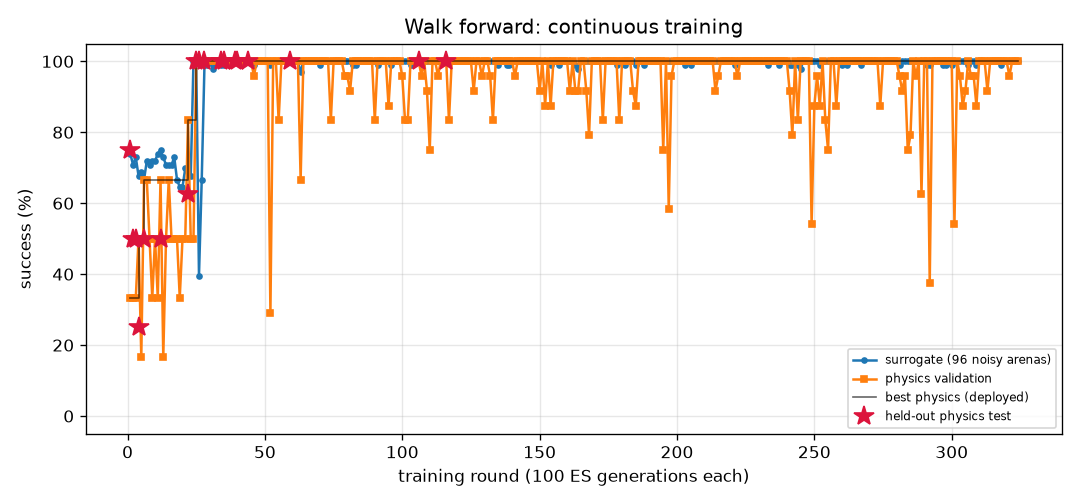
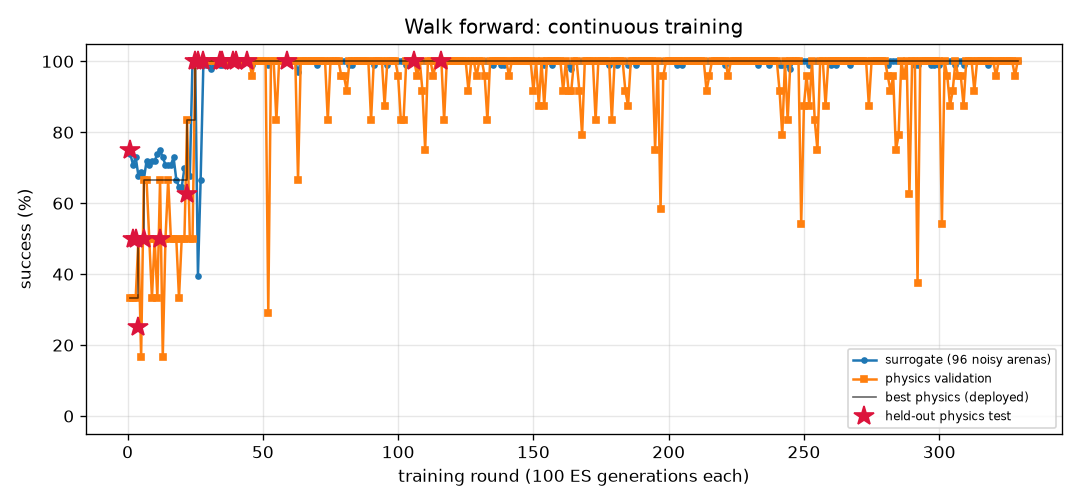
FlyLab: continuous training progress
- walk_forward: optimal, physics val 100% of 24, round 329
- turn: optimal, physics val 100% of 24, round 925
- goto: optimal, physics val 100% of 24, round 262
- odor_seek: optimal, physics val 100% of 24, round 212
- odor_avoid: optimal, physics val 100% of 24, round 837
- light_seek: optimal, physics val 100% of 24, round 458
- light_avoid: optimal, physics val 100% of 24, round 569

diff --git a/projects/09_flylab/training/walk_forward/REPORT.md b/projects/09_flylab/training/walk_forward/REPORT.md
@@ -1,14 +1,14 @@
 # Walk forward (`walk_forward`) — training report
 
-*Auto-generated by `train_brains.py`, last updated 2026-11-08T11:52:38.*
+*Auto-generated by `train_brains.py`, last updated 2026-11-08T12:47:40.*
 
 ![curve](curve.png)
 
 | | |
 |---|---|
-| rounds | 324 |
-| ES generations | 32400 |
-| physics runs | 7790 |
+| rounds | 329 |
+| ES generations | 32900 |
+| physics runs | 7910 |
 | status | **optimal** |
 | best brain | round 116: physics validation **100%** on 24 arenas, surrogate 100% |
 | held-out physics test | **100%** on 32 unseen arenas (95% CI 89%-100%) (errors: [0.13, 0.16, 0.19, 0.16, 0.15, 0.2, 0.17, 0.18, 0.17, 0.19, 0.2, 0.14, 0.17, 0.19, 0.2, 0.2, 0.13, 0.19, 0.16, 0.2, 0.2, 0.16, 0.17, 0.2, 0.13, 0.15, 0.18, 0.14, 0.16, 0.15, 0.19, 0.12]) |
@@ -17,11 +17,6 @@ Physics error per arena: mm from target at the end (< 1.5 and standing still = s
 
 | round | level | gens | sigma | surrogate | physics val | val errors | test | note |
 |---:|---:|---:|---:|---:|---:|---|---:|---|
-| 285 | 3 | 28500 | 0.024 | 100% | 79% | [0.22, 0.07, 0.26, 0.12, 0.1, 0.06, 0.11, 0.02, 0.1, 0.16, 0.37, 0.2, 0.21, 0.25, 0.1, 0.16, 0.05, 0.06, 0.03, 0.2, 0.07, 0.17, 0.21, 0.25] |  |  |
-| 286 | 3 | 28600 | 0.024 | 100% | 100% | [0.25, 0.24, 0.26, 0.25, 0.25, 0.25, 0.25, 0.27, 0.24, 0.23, 0.23, 0.25, 0.26, 0.25, 0.26, 0.24, 0.26, 0.25, 0.26, 0.25, 0.27, 0.22, 0.29, 0.26] |  |  |
-| 287 | 3 | 28700 | 0.024 | 100% | 96% | [0.13, 0.24, 0.14, 0.13, 0.24, 0.16, 0.24, 0.11, 0.24, 0.26, 0.17, 0.25, 0.01, 0.15, 0.16, 0.25, 0.12, 0.21, 0.12, 0.17, 0.11, 0.26, 0.23, 0.38] |  |  |
-| 288 | 3 | 28800 | 0.024 | 100% | 100% | [0.26, 0.33, 0.25, 0.26, 0.33, 0.25, 0.33, 0.24, 0.33, 0.33, 0.25, 0.33, 0.24, 0.25, 0.28, 0.33, 0.25, 0.31, 0.24, 0.29, 0.23, 0.33, 0.32, 0.24] |  | restart from best |
-| 289 | 3 | 28900 | 0.024 | 100% | 62% | [0.01, 0.17, 0.08, 0.47, 0.17, 1.02, 0.18, 0.53, 0.18, 0.19, 0.02, 0.17, 0.7, 0.71, 0.11, 0.18, 0.83, 0.15, 0.03, 0.13, 0.42, 0.19, 0.17, 0.29] |  |  |
 | 290 | 3 | 29000 | 0.024 | 100% | 100% | [0.22, 0.22, 0.18, 0.23, 0.22, 0.17, 0.22, 0.21, 0.22, 0.19, 0.16, 0.16, 0.21, 0.17, 0.23, 0.19, 0.23, 0.22, 0.22, 0.22, 0.22, 0.19, 0.16, 0.21] |  |  |
 | 291 | 3 | 29100 | 0.024 | 99% | 100% | [0.3, 0.29, 0.27, 0.29, 0.29, 0.26, 0.29, 0.29, 0.29, 0.28, 0.26, 0.27, 0.28, 0.27, 0.3, 0.28, 0.29, 0.3, 0.29, 0.3, 0.29, 0.28, 0.28, 0.29] |  |  |
 | 292 | 3 | 29200 | 0.025 | 99% | 38% | [3.46, 0.04, 0.02, 3.28, 0.07, 0.08, 0.04, 0.18, 0.13, 0.08, 0.48, 0.99, 3.81, 0.03, 0.34, 0.1, 0.17, 2.98, 0.07, 1.21, 2.08, 1.18, 0.09, 1.58] |  | restart from best |
@@ -57,3 +52,8 @@ Physics error per arena: mm from target at the end (< 1.5 and standing still = s
 | 322 | 3 | 32200 | 0.024 | 100% | 100% | [0.12, 0.19, 0.1, 0.16, 0.19, 0.08, 0.2, 0.07, 0.19, 0.26, 0.05, 0.24, 0.1, 0.08, 0.2, 0.25, 0.1, 0.2, 0.07, 0.15, 0.06, 0.24, 0.16, 0.1] |  |  |
 | 323 | 3 | 32300 | 0.024 | 100% | 100% | [0.24, 0.31, 0.21, 0.23, 0.31, 0.22, 0.3, 0.21, 0.31, 0.31, 0.22, 0.29, 0.21, 0.22, 0.26, 0.29, 0.23, 0.29, 0.21, 0.27, 0.22, 0.3, 0.28, 0.21] |  |  |
 | 324 | 3 | 32400 | 0.024 | 100% | 100% | [0.27, 0.27, 0.21, 0.26, 0.26, 0.19, 0.26, 0.24, 0.27, 0.24, 0.18, 0.18, 0.23, 0.2, 0.29, 0.22, 0.26, 0.28, 0.25, 0.28, 0.25, 0.24, 0.25, 0.23] |  | restart from best |
+| 325 | 3 | 32500 | 0.024 | 100% | 100% | [0.2, 0.26, 0.06, 0.2, 0.26, 0.06, 0.25, 0.16, 0.26, 0.24, 0.18, 0.23, 0.16, 0.06, 0.23, 0.24, 0.18, 0.25, 0.16, 0.24, 0.16, 0.24, 0.22, 0.15] |  |  |
+| 326 | 3 | 32600 | 0.024 | 100% | 100% | [0.11, 0.1, 0.05, 0.1, 0.11, 0.08, 0.16, 0.02, 0.12, 0.22, 0.08, 0.17, 0.12, 0.07, 0.14, 0.18, 0.12, 0.11, 0.06, 0.12, 0.08, 0.21, 0.18, 0.15] |  |  |
+| 327 | 3 | 32700 | 0.024 | 100% | 100% | [0.15, 0.21, 0.16, 0.15, 0.2, 0.16, 0.21, 0.16, 0.21, 0.24, 0.16, 0.24, 0.16, 0.16, 0.16, 0.24, 0.14, 0.19, 0.15, 0.16, 0.15, 0.24, 0.24, 0.16] |  |  |
+| 328 | 3 | 32800 | 0.024 | 100% | 96% | [0.1, 0.2, 0.04, 0.16, 0.18, 0.12, 0.18, 0.07, 0.17, 0.13, 0.29, 0.13, 0.14, 0.11, 0.11, 0.09, 0.15, 0.13, 0.15, 0.11, 0.13, 0.16, 0.15, 0.14] |  | restart from best |
+| 329 | 3 | 32900 | 0.024 | 100% | 100% | [0.34, 0.42, 0.3, 0.33, 0.42, 0.31, 0.42, 0.3, 0.42, 0.43, 0.31, 0.42, 0.31, 0.3, 0.37, 0.43, 0.33, 0.41, 0.3, 0.38, 0.31, 0.43, 0.42, 0.3] |  |  |

diff --git a/projects/09_flylab/training/goto/REPORT.md b/projects/09_flylab/training/goto/REPORT.md
@@ -1,14 +1,14 @@
 # Go to a location (`goto`) — training report
 
-*Auto-generated by `train_brains.py`, last updated 2026-11-07T20:32:22.*
+*Auto-generated by `train_brains.py`, last updated 2026-11-08T13:01:28.*
 
 ![curve](curve.png)
 
 | | |
 |---|---|
-| rounds | 259 |
-| ES generations | 25900 |
-| physics runs | 6166 |
+| rounds | 262 |
+| ES generations | 26200 |
+| physics runs | 6238 |
 | status | **optimal** |
 | best brain | round 176: physics validation **100%** on 24 arenas, surrogate 100% |
 | held-out physics test | **100%** on 32 unseen arenas (95% CI 89%-100%) (errors: [0.2, 0.32, 0.19, 0.24, 0.18, 0.2, 0.19, 0.17, 0.22, 0.23, 0.23, 0.26, 0.2, 0.19, 0.24, 0.23, 0.22, 0.24, 0.2, 0.22, 0.2, 0.2, 0.26, 0.19, 0.22, 0.18, 0.26, 0.22, 0.2, 0.26, 0.23, 0.23]) |
@@ -17,9 +17,6 @@ Physics error per arena: mm from target at the end (< 1.5 and standing still = s
 
 | round | level | gens | sigma | surrogate | physics val | val errors | test | note |
 |---:|---:|---:|---:|---:|---:|---|---:|---|
-| 220 | 3 | 22000 | 0.025 | 98% | 100% | [0.46, 0.37, 0.31, 0.24, 0.25, 0.28, 0.47, 0.24, 0.28, 0.28, 0.23, 0.25, 0.35, 0.23, 0.36, 0.32, 0.38, 0.39, 0.29, 0.32, 0.31, 0.28, 0.32, 0.29] |  | restart from best |
-| 221 | 3 | 22100 | 0.024 | 99% | 100% | [0.58, 0.5, 0.4, 0.48, 0.39, 0.44, 0.56, 0.47, 0.5, 0.39, 0.4, 0.47, 0.55, 0.37, 0.44, 0.43, 0.56, 0.46, 0.39, 0.55, 0.4, 0.45, 0.55, 0.48] |  |  |
-| 222 | 3 | 22200 | 0.025 | 100% | 100% | [0.59, 0.59, 0.55, 0.56, 0.6, 0.56, 0.59, 0.57, 0.58, 0.56, 0.58, 0.55, 0.6, 0.57, 0.6, 0.59, 0.61, 0.56, 0.57, 0.58, 0.61, 0.55, 0.6, 0.56] |  |  |
 | 223 | 3 | 22300 | 0.024 | 100% | 100% | [0.4, 0.42, 0.39, 0.38, 0.33, 0.35, 0.42, 0.39, 0.43, 0.33, 0.31, 0.36, 0.43, 0.34, 0.36, 0.4, 0.41, 0.35, 0.33, 0.43, 0.4, 0.34, 0.4, 0.38] |  |  |
 | 224 | 3 | 22400 | 0.024 | 100% | 100% | [0.61, 0.61, 0.55, 0.59, 0.51, 0.56, 0.64, 0.59, 0.63, 0.54, 0.53, 0.58, 0.63, 0.48, 0.6, 0.59, 0.67, 0.54, 0.54, 0.66, 0.56, 0.59, 0.63, 0.6] |  | restart from best |
 | 225 | 3 | 22500 | 0.024 | 99% | 100% | [0.48, 0.41, 0.32, 0.42, 0.3, 0.37, 0.46, 0.4, 0.48, 0.32, 0.32, 0.41, 0.48, 0.31, 0.37, 0.38, 0.49, 0.36, 0.32, 0.47, 0.33, 0.39, 0.46, 0.41] |  |  |
@@ -57,3 +54,6 @@ Physics error per arena: mm from target at the end (< 1.5 and standing still = s
 | 257 | 3 | 25700 | 0.024 | 100% | 100% | [0.67, 0.68, 0.56, 0.61, 0.54, 0.59, 0.64, 0.63, 0.69, 0.58, 0.56, 0.61, 0.69, 0.59, 0.62, 0.64, 0.7, 0.59, 0.55, 0.67, 0.62, 0.58, 0.69, 0.61] |  |  |
 | 258 | 3 | 25800 | 0.024 | 99% | 100% | [0.49, 0.47, 0.37, 0.44, 0.36, 0.4, 0.47, 0.47, 0.5, 0.38, 0.37, 0.44, 0.5, 0.38, 0.42, 0.43, 0.53, 0.42, 0.36, 0.5, 0.41, 0.41, 0.51, 0.44] |  |  |
 | 259 | 3 | 25900 | 0.025 | 99% | 100% | [0.74, 0.66, 0.51, 0.63, 0.52, 0.58, 0.68, 0.68, 0.7, 0.54, 0.55, 0.61, 0.72, 0.52, 0.6, 0.62, 0.75, 0.61, 0.53, 0.69, 0.58, 0.61, 0.74, 0.61] |  |  |
+| 260 | 3 | 26000 | 0.025 | 99% | 100% | [0.54, 0.57, 0.58, 0.46, 0.4, 0.46, 0.5, 0.54, 0.51, 0.4, 0.38, 0.43, 0.55, 0.44, 0.46, 0.46, 0.55, 0.46, 0.38, 0.52, 0.46, 0.39, 0.56, 0.48] |  | restart from best |
+| 261 | 3 | 26100 | 0.024 | 100% | 100% | [0.56, 0.54, 0.59, 0.51, 0.41, 0.48, 0.56, 0.54, 0.55, 0.46, 0.43, 0.49, 0.56, 0.45, 0.54, 0.51, 0.6, 0.47, 0.42, 0.55, 0.48, 0.47, 0.6, 0.5] |  |  |
+| 262 | 3 | 26200 | 0.024 | 99% | 100% | [0.43, 0.4, 0.37, 0.27, 0.3, 0.26, 0.41, 0.29, 0.39, 0.27, 0.27, 0.27, 0.37, 0.27, 0.35, 0.34, 0.4, 0.24, 0.26, 0.34, 0.31, 0.27, 0.37, 0.29] |  |  |

diff --git a/projects/09_flylab/training/light_seek/REPORT.md b/projects/09_flylab/training/light_seek/REPORT.md
@@ -1,14 +1,14 @@
 # Walk toward light (`light_seek`) — training report
 
-*Auto-generated by `train_brains.py`, last updated 2026-11-08T12:01:01.*
+*Auto-generated by `train_brains.py`, last updated 2026-11-08T12:15:56.*
 
 ![curve](curve.png)
 
 | | |
 |---|---|
-| rounds | 457 |
-| ES generations | 45700 |
-| physics runs | 7848 |
+| rounds | 458 |
+| ES generations | 45800 |
+| physics runs | 7872 |
 | status | **optimal** |
 | best brain | round 375: physics validation **100%** on 24 arenas, surrogate 100% |
 | held-out physics test | **100%** on 32 unseen arenas (95% CI 89%-100%) (errors: [0.57, 0.54, 0.53, 0.57, 0.55, 0.56, 0.59, 0.56, 0.53, 0.56, 0.71, 0.56, 0.55, 0.54, 0.53, 0.54, 0.54, 0.55, 0.52, 0.65, 0.64, 0.7, 0.58, 0.57, 0.6, 0.62, 0.55, 0.88, 0.54, 0.52, 0.62, 0.57]) |
@@ -17,7 +17,6 @@ Physics error per arena: mm from target at the end (< 1.5 and standing still = s
 
 | round | level | gens | sigma | surrogate | physics val | val errors | test | note |
 |---:|---:|---:|---:|---:|---:|---|---:|---|
-| 418 | 3 | 41800 | 0.024 | 100% | 100% | [0.57, 0.82, 0.55, 0.86, 0.56, 0.57, 0.87, 0.58, 0.56, 0.87, 0.97, 0.83, 0.52, 0.6, 0.78, 0.9, 0.6, 0.56, 0.78, 0.65, 0.57, 0.99, 0.97, 0.92] |  |  |
 | 419 | 3 | 41900 | 0.024 | 100% | 92% | [0.63, 0.61, 0.49, 0.57, 0.55, 0.54, 0.56, 1.38, 0.64, 0.68, 0.54, 1.61, 0.51, 1.16, 0.52, 0.58, 0.55, 0.54, 0.62, 2.03, 0.63, 1.26, 0.48, 1.01] |  | restart from best |
 | 420 | 3 | 42000 | 0.024 | 100% | 100% | [0.62, 0.7, 0.6, 0.61, 0.56, 0.68, 0.62, 0.7, 0.54, 0.56, 0.57, 0.65, 0.64, 0.61, 0.56, 0.51, 1.37, 0.57, 0.61, 0.52, 0.67, 0.65, 0.6, 1.15] |  |  |
 | 421 | 3 | 42100 | 0.024 | 100% | 96% | [0.46, 0.54, 0.56, 0.54, 0.45, 0.57, 0.54, 0.53, 0.57, 0.45, 0.6, 0.47, 0.51, 1.11, 0.97, 0.88, 1.26, 0.43, 0.5, 0.97, 0.87, 1.63, 0.53, 0.43] |  |  |
@@ -57,3 +56,4 @@ Physics error per arena: mm from target at the end (< 1.5 and standing still = s
 | 455 | 3 | 45500 | 0.024 | 100% | 100% | [0.63, 0.43, 0.46, 0.52, 0.51, 0.68, 0.46, 0.43, 0.44, 0.43, 0.54, 0.53, 0.46, 0.58, 0.43, 0.43, 0.48, 0.44, 0.49, 0.47, 0.53, 0.68, 0.5, 0.58] |  | restart from best |
 | 456 | 3 | 45600 | 0.024 | 100% | 96% | [0.65, 0.55, 0.54, 0.58, 0.81, 0.53, 0.55, 0.6, 0.56, 0.75, 0.55, 0.55, 0.87, 0.7, 0.53, 0.62, 0.66, 0.54, 0.57, 0.71, 0.71, 2.36, 0.57, 0.56] |  |  |
 | 457 | 3 | 45700 | 0.024 | 100% | 100% | [0.59, 0.54, 0.54, 0.52, 0.53, 0.55, 0.58, 0.88, 0.49, 0.54, 0.66, 0.72, 0.53, 0.55, 0.49, 0.53, 0.6, 0.6, 0.64, 0.63, 0.6, 0.57, 0.56, 0.6] |  |  |
+| 458 | 3 | 45800 | 0.024 | 100% | 100% | [0.6, 0.55, 0.58, 0.69, 0.57, 0.79, 0.56, 0.72, 0.57, 0.66, 0.62, 0.69, 0.59, 0.55, 0.89, 0.59, 0.57, 0.56, 0.58, 0.67, 0.69, 0.55, 0.8, 0.59] |  |  |

diff --git a/projects/09_flylab/training/TRAINING.md b/projects/09_flylab/training/TRAINING.md
@@ -1,15 +1,15 @@
 # FlyLab brains — continuous training log
 
-*Auto-generated by `train_brains.py`, last updated 2026-11-08T12:01:01.*
+*Auto-generated by `train_brains.py`, last updated 2026-11-08T13:01:28.*
 
 Every skill has its own brain and its own training process: surrogate ES rounds, physics validation in MuJoCo, keep-the-best selection, and a held-out physics test that is never used for selection. See each skill's report for its full round-by-round history. Mastery is progressive: passing a level (100% physics validation, >=95% surrogate) doubles the validation and test arena sets; a brain is **optimal** once it holds up at level 3 (>=95% of 24 validation arenas) AND scores >=90% on the 32 held-out test arenas. Test columns show 95% Wilson confidence intervals.
 
 | skill | rounds | ES generations | physics runs | surrogate | physics val | **physics test** | status |
 |---|---:|---:|---:|---:|---:|---:|---|
-| [Walk forward](walk_forward/REPORT.md) | 324 | 32400 | 7790 | 100% | 100% of 24 | 100% of 32 (CI 89-100%) | **optimal** |
+| [Walk forward](walk_forward/REPORT.md) | 329 | 32900 | 7910 | 100% | 100% of 24 | 100% of 32 (CI 89-100%) | **optimal** |
 | [Turn in place](turn/REPORT.md) | 925 | 92500 | 22446 | 100% | 100% of 24 | 97% of 32 (CI 84-99%) | **optimal** |
-| [Go to a location](goto/REPORT.md) | 259 | 25900 | 6166 | 100% | 100% of 24 | 100% of 32 (CI 89-100%) | **optimal** |
+| [Go to a location](goto/REPORT.md) | 262 | 26200 | 6238 | 100% | 100% of 24 | 100% of 32 (CI 89-100%) | **optimal** |
 | [Find food by smell](odor_seek/REPORT.md) | 212 | 21200 | 4518 | 100% | 100% of 24 | 100% of 32 (CI 89-100%) | **optimal** |
 | [Escape a bad smell](odor_avoid/REPORT.md) | 837 | 83700 | 17394 | 97% | 100% of 24 | 97% of 32 (CI 84-99%) | **optimal** |
-| [Walk toward light](light_seek/REPORT.md) | 457 | 45700 | 7848 | 100% | 100% of 24 | 100% of 32 (CI 89-100%) | **optimal** |
+| [Walk toward light](light_seek/REPORT.md) | 458 | 45800 | 7872 | 100% | 100% of 24 | 100% of 32 (CI 89-100%) | **optimal** |
 | [Hide from light](light_avoid/REPORT.md) | 569 | 56900 | 13928 | 100% | 100% of 24 | 100% of 32 (CI 89-100%) | **optimal** |
